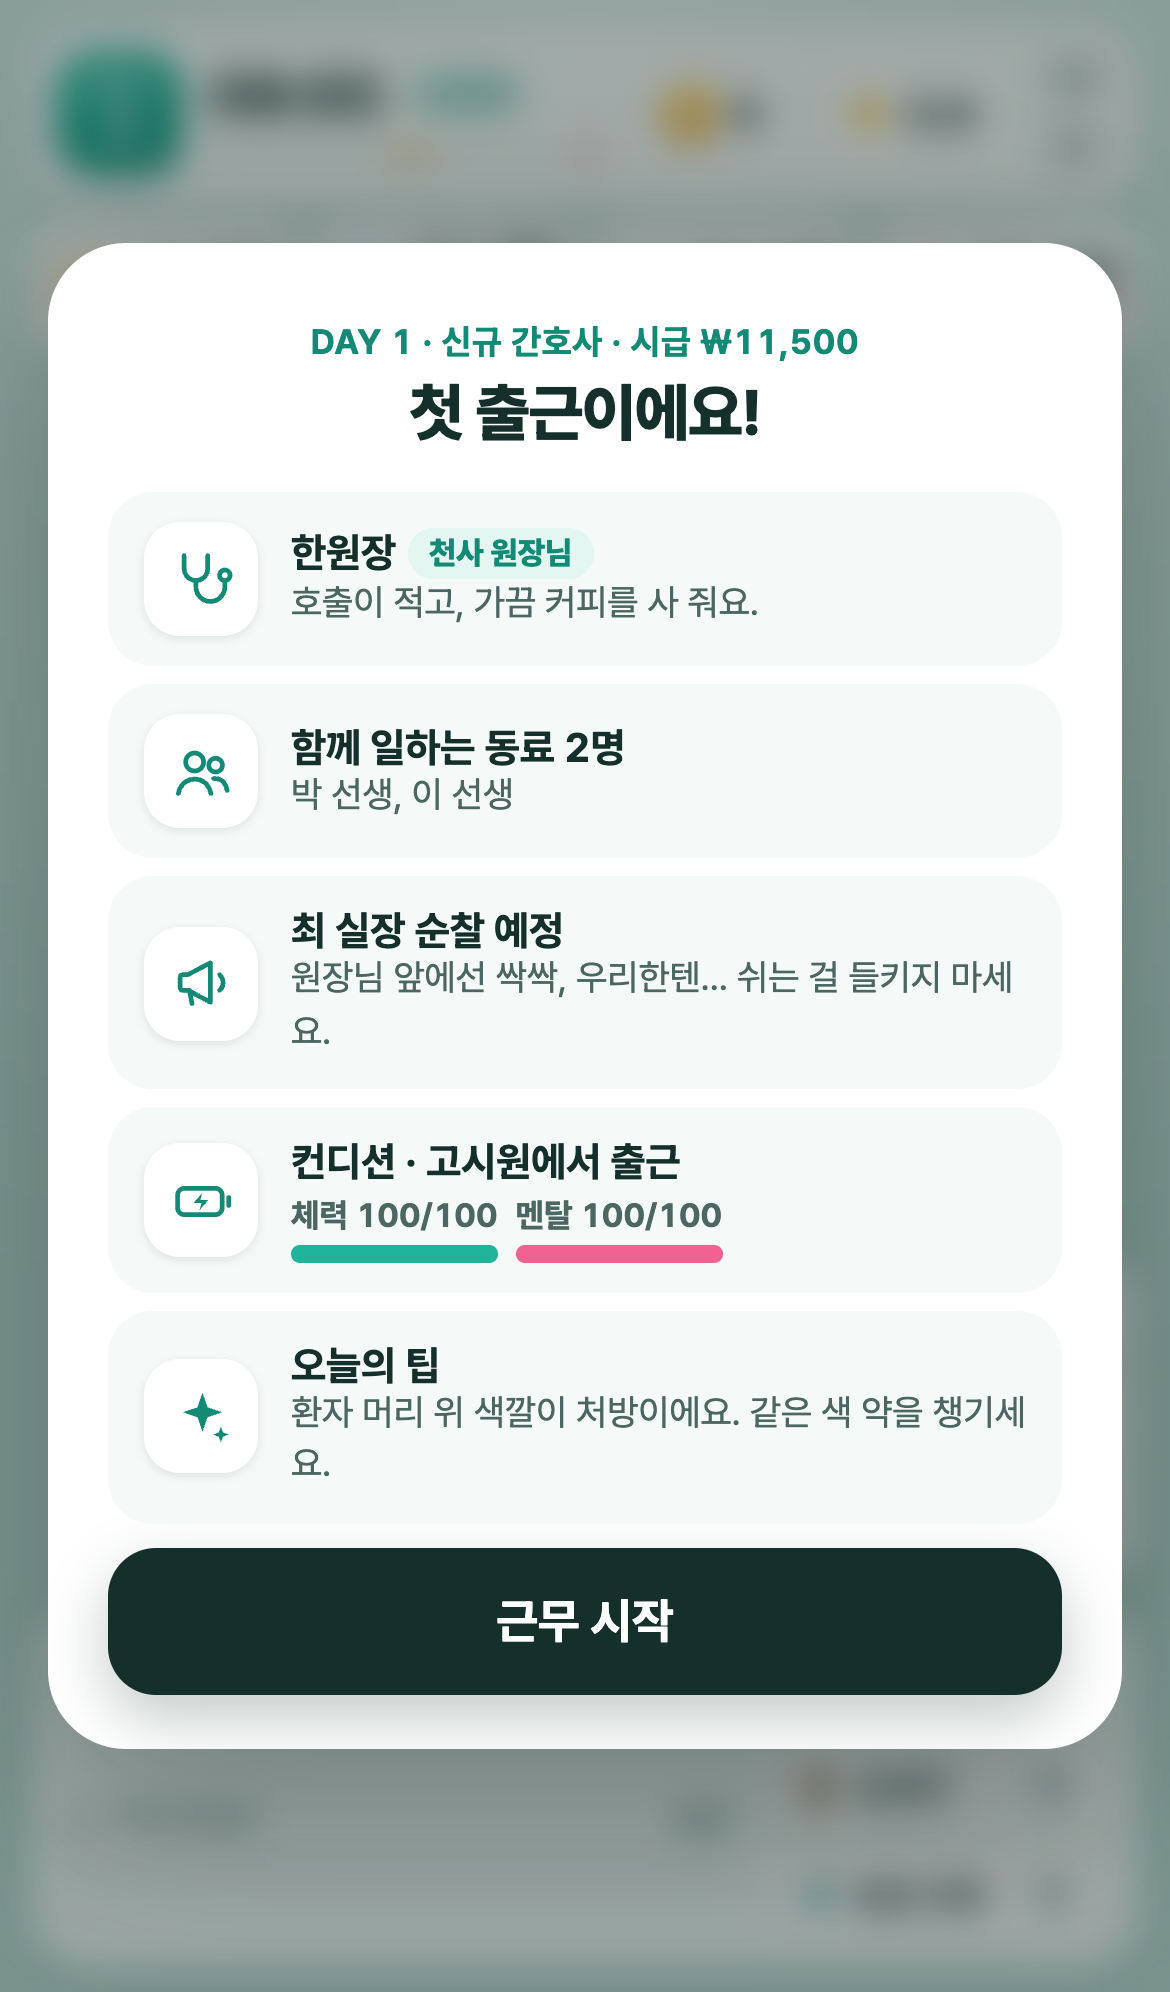
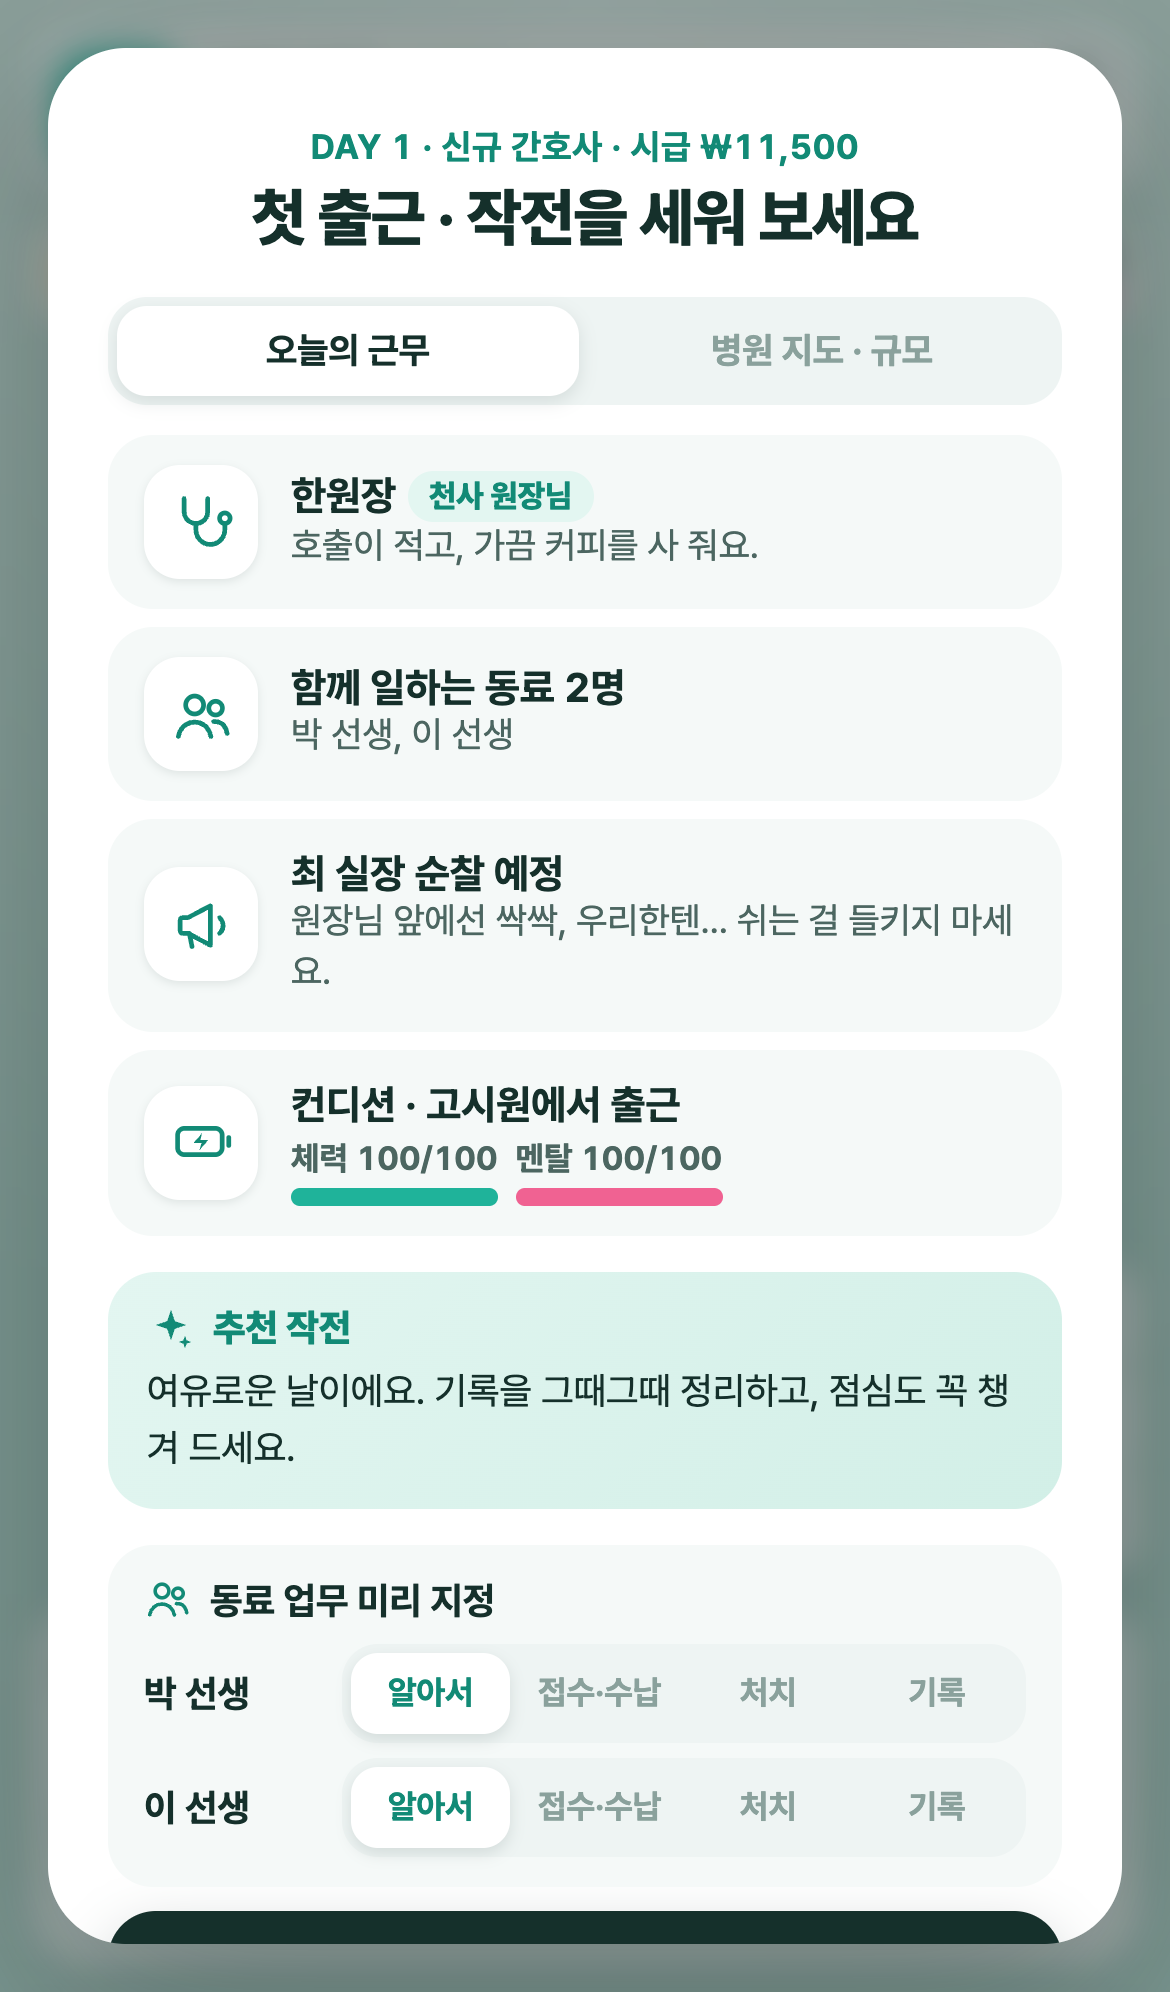
출근 전 작전 회의: 병원 평면도·규모·이벤트 미리보기, 동료 업무 사전 지정, 3D 맵 둘러보기

diff --git a/game.js b/game.js
@@ -378,9 +378,9 @@ let phoneMesh;
 // ---------- 매일 바뀌는 것: 침대 · TV ----------
 const dayGroup = new THREE.Group();
 world.add(dayGroup);
-function buildBeds() {
+function buildBeds(holder) {
   dayGroup.clear();
-  S.beds = [];
+  holder.beds = [];
   const make = (kind, n, bz, flip) => {
     [-2.2, -0.9, 0.4, 1.7].slice(0, n).forEach((dx) => {
       const c = R('ward', dx, bz);
@@ -411,7 +411,7 @@ function buildBeds() {
       };
       bed.ov.style.visibility = 'hidden';
       hit.userData.hit = { type: 'bed', bed };
-      S.beds.push(bed);
+      holder.beds.push(bed);
     });
   };
   make('iv', Math.min(4, save.clinic.ivBeds), -2.0, false);
@@ -800,8 +800,10 @@ function newDay(doc) {
              startRating: save.rating, maxCombo: 0, restSec: 0, errands: 0, errandsMissed: 0, rude: 0, charted: 0,
              taeum: 0, harass: 0, ateLunch: false, blood: 0, bloodFail: 0, chores: 0, evalAdj: 0 },
   };
+  for (const b of preview.beds) b.ov.remove();
+  preview.beds = [];
   buildDayCast();
-  buildBeds();
+  buildBeds(S);
   allActors().forEach((a, i) => {
     a.hands = []; a.queue = []; a.cur = null; a.path = []; a.state = 'work'; a.slot = null;
     const sp = i < 2 ? DESK_SLOTS[i].spot : SP.prep;
@@ -2107,11 +2109,111 @@ function sleepAndNext() {
 }
 
 let briefDoc = null;
+const preview = { beds: [], on: false };
+const DOC_PLAN = {
+  kind: '여유로운 날이에요. 기록을 그때그때 정리하고, 점심도 꼭 챙겨 드세요.',
+  slow: '진료가 길어 접수·수납실이 붐벼요. 동료 한 명은 <b>접수·수납 위주</b>로, 대기 환자 인내심을 지켜 주세요.',
+  fast: '진료가 빨라 주사실이 금방 차요. 동료를 <b>처치 위주</b>로 돌리고, 처방 변경이 잦으니 약은 1~2개씩만 챙기세요.',
+  caller: '원장님 호출이 수시로 와요. 처치는 동료에게 맡기고(<b>처치 위주</b>), 나는 데스크·호출 대응 위주로.',
+  creep: '불쾌한 말에 대비해 멘탈을 아껴 두세요. 초코바·간식으로 멘탈과 체력을 미리 채워 두는 게 좋아요.',
+};
+function estPatients() {
+  const base = Math.max(3.6, 7.0 - (save.day - 1) * 0.5);
+  return Math.round(147 / base + (16.7 / base) * (1 / 0.6 - 1));
+}
+function minimapSVG(doc) {
+  const K = 14, ox = 7.2, oz = 11.6;
+  const X = (x) => ((x + ox) * K).toFixed(1), Z = (z) => ((z + oz) * K).toFixed(1);
+  const W = (14.4 * K).toFixed(0), H = (24.6 * K).toFixed(0);
+  const nIv = Math.min(4, save.clinic.ivBeds), nHeat = Math.min(4, save.clinic.heatBeds);
+  const info = {
+    exam: [`${doc.name} · ${doc.trait}`, '진료 의자 1'],
+    cabinet: ['약 5종', '주사실과 내부 문'],
+    ward: [`침대 · 수액 ${nIv} · 핫팩 ${nHeat}`],
+    inject: ['처치 대기 의자 6', '주사 · 채혈'],
+    desk: ['창구 2 · 번호표', `대기 의자 10${save.clinic.tv ? ' · TV' : ''}`],
+    pantry: ['화장실 · 간식', '점심 13~14시'],
+  };
+  const flow = { desk: '1·5', exam: '2', inject: '3', ward: '4' };
+  let g = `<svg class="minimap" viewBox="0 0 ${W} ${H}" xmlns="http://www.w3.org/2000/svg">`;
+  g += `<rect x="${X(-COR)}" y="${Z(-11)}" width="${(2 * COR * K).toFixed(1)}" height="${(23.6 * K).toFixed(1)}" fill="#e3eeeb"/>`;
+  for (const r of Object.values(ROOMS)) {
+    g += `<rect x="${X(r.x0)}" y="${Z(r.z0)}" width="${((r.x1 - r.x0) * K).toFixed(1)}" height="${((r.z1 - r.z0) * K).toFixed(1)}" rx="6" fill="${r.floor}" stroke="#ffffff" stroke-width="3"/>`;
+    const tx = r.cx + (r.side < 0 ? -0.4 : 0.4), tz = r.cz + { exam: 0.2, cabinet: 0.9, ward: -0.05, inject: -0.6, desk: -1.6, pantry: 0.6 }[r.key];
+    g += `<text x="${X(tx)}" y="${Z(tz)}" text-anchor="middle" font-size="11" font-weight="800" fill="#15302b">${r.name}</text>`;
+    info[r.key].forEach((ln, i) => { g += `<text x="${X(tx)}" y="${(+Z(tz) + 13 + i * 11).toFixed(1)}" text-anchor="middle" font-size="8.5" font-weight="600" fill="#4c6661">${ln}</text>`; });
+    const dx = r.side * COR;
+    g += `<rect x="${(+X(dx) - 2).toFixed(1)}" y="${Z(r.cz - 0.9)}" width="4" height="${(1.8 * K).toFixed(1)}" rx="2" fill="#1fb39a"/>`;
+    const fx = r.side < 0 ? r.x1 - 0.5 : r.x0 + 0.5, fz = r.cz + (r.key === 'desk' ? -1.0 : r.key === 'ward' ? 0.15 : 0);
+    if (flow[r.key]) g += `<circle cx="${X(fx)}" cy="${Z(fz)}" r="9" fill="#15302b"/><text x="${X(fx)}" y="${(+Z(fz) + 3.5).toFixed(1)}" text-anchor="middle" font-size="${flow[r.key].length > 1 ? 7 : 9}" font-weight="800" fill="#7ff0dc">${flow[r.key]}</text>`;
+  }
+  // 침대 · 의자 · 사람
+  [-2.2, -0.9, 0.4, 1.7].slice(0, nIv).forEach((dx) => { const c = R('ward', dx, -2.0); g += `<rect x="${X(c.x - 0.5)}" y="${Z(c.z - 1)}" width="${K}" height="${2 * K}" rx="3" fill="#a8dcef"/>`; });
+  [-2.2, -0.9, 0.4, 1.7].slice(0, nHeat).forEach((dx) => { const c = R('ward', dx, 2.0); g += `<rect x="${X(c.x - 0.5)}" y="${Z(c.z - 1)}" width="${K}" height="${2 * K}" rx="3" fill="#f6c3a0"/>`; });
+  for (const st of [...SEATS.lobby, ...SEATS.inject]) g += `<circle cx="${X(st.x)}" cy="${Z(st.z)}" r="3.2" fill="${SEATS.lobby.includes(st) ? '#f2a65a' : '#8f7fe8'}"/>`;
+  const desk = R('desk', -0.7, -2.6);
+  g += `<rect x="${X(desk.x - 1.9)}" y="${Z(desk.z - 0.3)}" width="${(3.8 * K).toFixed(1)}" height="${(0.6 * K).toFixed(1)}" rx="3" fill="#e6c48f"/>`;
+  const dp = R('exam', -1.4, -1.85);
+  g += `<circle cx="${X(dp.x)}" cy="${Z(dp.z)}" r="5" fill="#ffffff" stroke="#15302b" stroke-width="2"/>`;
+  const lx = R('cabinet', LINK_DX, 0).x;
+  g += `<rect x="${X(lx - 0.6)}" y="${(+Z(-5) - 2).toFixed(1)}" width="${(1.2 * K).toFixed(1)}" height="4" rx="2" fill="#3f7df0"/>`;
+  g += `<text x="${X(0)}" y="${Z(12.3)}" text-anchor="middle" font-size="9" font-weight="800" fill="#128a76">▲ 입구</text>`;
+  return g + '</svg>';
+}
+function renderBriefMap(doc) {
+  const nMates = save.day <= 3 ? 2 : 1;
+  const beds = Math.min(4, save.clinic.ivBeds) + Math.min(4, save.clinic.heatBeds);
+  const evs = [
+    ['drop', '채혈 1~2건'], ['lunch', '점심 13~14시'], ['clock', '17:30 접수 마감'], ['megaphone', '실장 순찰'],
+  ];
+  if (save.day >= 2) evs.push(['heartPulse', '응급 환자 가능', 1], ['stetho', '처방 변경', 1]);
+  if (doc.harass) evs.push(['warning', '불쾌한 발언', 1]);
+  if (doc.kind) evs.push(['cup', '커피 이벤트']);
+  if (doc.errandMul > 2) evs.push(['stetho', '원장님 호출 잦음', 1]);
+  $('#brief-map').innerHTML = `<div class="map-wrap">${minimapSVG(doc)}</div>
+    <div class="scale-grid">
+      <div><b>1</b><small>의사</small></div>
+      <div><b>${1 + nMates}</b><small>간호사 (나+동료)</small></div>
+      <div><b>1</b><small>간호실장</small></div>
+      <div><b>${beds}</b><small>치료 침대</small></div>
+      <div><b>16</b><small>대기 의자</small></div>
+      <div><b>~${estPatients()}</b><small>예상 환자</small></div>
+    </div>
+    <div class="ev-list">${evs.map(([ic, t, w]) => `<span class="ev ${w ? 'warn' : ''}">${icon(ic)}${t}</span>`).join('')}</div>
+    <div class="stage-next">${icon('home')}<span><b>STAGE 1 · 동네 의원</b> — 다음 스테이지 <b>종합병원</b>(원무과·병동·3교대)은 준비 중이에요</span></div>`;
+}
+function setBriefTab(tab) {
+  document.querySelectorAll('#brief-tabs button').forEach((b) => b.classList.toggle('on', b.dataset.btab === tab));
+  document.querySelectorAll('.btab').forEach((b) => b.classList.toggle('hidden', b.dataset.btab !== tab));
+}
+$('#brief-tabs').addEventListener('click', (e) => { const b = e.target.closest('[data-btab]'); if (b) setBriefTab(b.dataset.btab); });
+$('#brief-body').addEventListener('click', (e) => {
+  const fb = e.target.closest('[data-bfocus]');
+  if (!fb) return;
+  const i = +fb.dataset.bmate;
+  save.focus[i] = fb.dataset.bfocus; persist();
+  fb.parentElement.querySelectorAll('button').forEach((x) => x.classList.toggle('on', x === fb));
+});
+function startPreview() {
+  $('#screen-brief').classList.add('hidden');
+  if (S && S.ended) clearDay();
+  for (const b of preview.beds) b.ov.remove();
+  buildBeds(preview);
+  placeDoctor(briefDoc.look);
+  cam.tZoom = 1; cam.tpx = 0; cam.tpz = 0;
+  preview.on = true;
+  $('#preview-bar').classList.remove('hidden');
+  toast('🏠 오늘의 의원을 둘러보세요. 두 손가락으로 확대할 수 있어요');
+}
+function endPreview() { preview.on = false; $('#preview-bar').classList.add('hidden'); }
+$('#btn-brief-look').addEventListener('click', startPreview);
+$('#pv-back').addEventListener('click', () => { endPreview(); $('#screen-brief').classList.remove('hidden'); });
+$('#pv-go').addEventListener('click', () => { endPreview(); $('#btn-brief-go').click(); });
 function openBrief() {
   briefDoc = pickDoctor();
   const rank = RANKS[save.rank];
   $('#brief-eyebrow').textContent = `DAY ${save.day} · ${rank.name} · 시급 ${won(rank.wage)}`;
-  $('#brief-title').textContent = save.day === 1 ? '첫 출근이에요!' : '오늘의 근무';
+  $('#brief-title').textContent = save.day === 1 ? '첫 출근 · 작전을 세워 보세요' : '출근 전 작전 회의';
   const nMates = save.day <= 3 ? 2 : 1;
   const mx = maxStat();
   const bar = (label, v, c) => `<div>${label} ${v}/${mx}<b><i style="width:${v / mx * 100}%;background:${c}"></i></b></div>`;
@@ -2120,8 +2222,13 @@ function openBrief() {
     <div class="brief-item"><span class="bi">${icon('users')}</span><div><b>함께 일하는 동료 ${nMates}명</b><p>${MATE_DEFS.slice(0, nMates).map((m) => m.name).join(', ')}${save.day === 4 ? ' · <b>이 선생님이 이직했어요.</b> (간호사 72.1%가 이직을 고민)' : ''}</p></div></div>
     <div class="brief-item"><span class="bi">${icon('megaphone')}</span><div><b>최 실장 순찰 예정</b><p>원장님 앞에선 싹싹, 우리한텐… 쉬는 걸 들키지 마세요.</p></div></div>
     <div class="brief-item"><span class="bi">${icon('battery')}</span><div><b>컨디션 · ${HOMES[save.home].name}에서 출근</b><div class="bars2">${bar('체력', Math.round(save.stamina), '#1fb39a')}${bar('멘탈', Math.round(save.mental), '#f06292')}</div></div></div>
-    <div class="brief-item"><span class="bi">${icon('sparkle')}</span><div><b>오늘의 팁</b><p>${TIPS[(save.day - 1) % TIPS.length]}</p></div></div>
+    <div class="plan"><h4>${icon('sparkle')}추천 작전</h4><p>${DOC_PLAN[briefDoc.id]}</p></div>
+    <div class="brief-mates"><b>${icon('users')}동료 업무 미리 지정</b>
+      ${MATE_DEFS.slice(0, nMates).map((m, i) => `<div class="mate-row"><span class="mate-name">${m.name}</span><div class="focus-seg">${Object.entries(FOCUS).map(([k, v]) => `<button data-bmate="${i}" data-bfocus="${k}" class="${(save.focus[i] || 'auto') === k ? 'on' : ''}">${v}</button>`).join('')}</div></div>`).join('')}
+    </div>
   </div>`;
+  renderBriefMap(briefDoc);
+  setBriefTab('today');
   $('#screen-brief').classList.remove('hidden');
 }
 $('#btn-brief-go').addEventListener('click', () => {

diff --git a/style.css b/style.css
@@ -510,3 +510,38 @@ button.primary.danger { background: #e53935; box-shadow: 0 8px 20px rgba(229,57,
 .actor-ov .pbar { visibility: hidden; }
 
 .qbtn b { font-weight: 700; font-size: 11.5px; }
+
+/* ===== 스테이지 미리보기 ===== */
+.card.brief .tabs { margin: 0 0 10px; }
+.minimap { width: 100%; height: auto; display: block; border-radius: 16px; background: #cfe6e0; }
+.minimap text { font-family: var(--font); }
+.map-wrap { position: relative; }
+.scale-grid { display: grid; grid-template-columns: repeat(3, 1fr); gap: 6px; margin-top: 10px; }
+.scale-grid div { background: #f5f9f8; border-radius: 12px; padding: 8px 6px; text-align: center; }
+.scale-grid b { display: block; font-size: 17px; font-weight: 800; }
+.scale-grid small { font-size: 10.5px; color: var(--ink-3); font-weight: 600; }
+.ev-list { display: flex; flex-wrap: wrap; gap: 5px; margin-top: 10px; justify-content: flex-start; }
+.ev { display: inline-flex; align-items: center; gap: 4px; font-size: 11.5px; font-weight: 700; padding: 5px 9px; border-radius: 999px; background: #f5f9f8; color: var(--ink-2); }
+.ev .ic { font-size: 13px; color: var(--mint-d); }
+.ev.warn { background: var(--coral-l); color: var(--coral); }
+.ev.warn .ic { color: var(--coral); }
+.stage-next { margin-top: 10px; display: flex; align-items: center; gap: 8px; padding: 10px 12px; border-radius: 14px; border: 1.5px dashed rgba(21,48,43,.15); font-size: 12px; color: var(--ink-3); text-align: left; }
+.stage-next .ic { font-size: 18px; }
+.plan { text-align: left; padding: 11px 13px; border-radius: 16px; background: linear-gradient(135deg, #e3f6f1, #d2efe7); margin-top: 6px; }
+.plan h4 { display: flex; align-items: center; gap: 6px; font-size: 12.5px; font-weight: 800; color: var(--mint-d); margin-bottom: 4px; }
+.plan h4 .ic { font-size: 16px; }
+.plan p { font-size: 12.5px; color: var(--ink); line-height: 1.5; }
+.brief-mates { margin-top: 6px; text-align: left; padding: 10px 12px; border-radius: 15px; background: #f5f9f8; }
+.brief-mates > b { font-size: 12.5px; display: flex; align-items: center; gap: 6px; margin-bottom: 2px; }
+.brief-mates > b .ic { font-size: 16px; color: var(--mint-d); }
+.brief-mates .mate-row { border-top: none; padding: 5px 0 0; }
+#preview-bar { position: absolute; left: 10px; right: 10px; top: 10px; z-index: 45; display: flex; align-items: center; gap: 8px; padding: 9px 9px 9px 14px; border-radius: 18px; background: rgba(21,48,43,.92); color: #fff; box-shadow: 0 10px 30px rgba(21,48,43,.35); }
+#preview-bar .pv-tx { flex: 1; display: flex; flex-direction: column; line-height: 1.3; }
+#preview-bar .pv-tx b { font-size: 13.5px; }
+#preview-bar .pv-tx span { font-size: 11px; color: rgba(255,255,255,.7); }
+.pv-btn { padding: 9px 13px; border-radius: 12px; background: #7ff0dc; color: #15302b; font-weight: 800; font-size: 13px; }
+.pv-btn.ghosty { background: rgba(255,255,255,.12); color: #fff; }
+
+.v-top span { white-space: nowrap; overflow: hidden; }
+.v-top { gap: 3px; }
+.vital.bladder .v-top span { letter-spacing: -0.04em; }

diff --git a/index.html b/index.html
@@ -80,6 +80,11 @@
         <button id="zoom-reset" aria-label="전체 보기"><span data-icon="expand"></span></button>
       </div>
       <div id="sheet" class="sheet hidden"></div>
+      <div id="preview-bar" class="hidden">
+        <div class="pv-tx"><b>맵 미리보기</b><span>두 손가락으로 확대 · 드래그로 이동</span></div>
+        <button id="pv-back" class="pv-btn ghosty">브리핑</button>
+        <button id="pv-go" class="pv-btn">근무 시작</button>
+      </div>
       <div id="loading">의원 짓는 중…</div>
     </main>
 
@@ -125,11 +130,17 @@
 
   <!-- 출근 브리핑 -->
   <div id="screen-brief" class="screen hidden">
-    <div class="card">
+    <div class="card brief">
       <p class="eyebrow" id="brief-eyebrow">DAY 1 · 신규 간호사</p>
       <h2 id="brief-title">오늘의 근무</h2>
-      <div id="brief-body"></div>
+      <div class="tabs" id="brief-tabs">
+        <button data-btab="today" class="on">오늘의 근무</button>
+        <button data-btab="map">병원 지도 · 규모</button>
+      </div>
+      <div id="brief-body" class="btab" data-btab="today"></div>
+      <div id="brief-map" class="btab hidden" data-btab="map"></div>
       <button id="btn-brief-go" class="primary">근무 시작</button>
+      <button id="btn-brief-look" class="secondary"><span data-icon="expand"></span>3D로 미리 둘러보기</button>
     </div>
   </div>
 

diff --git a/README.md b/README.md
@@ -34,6 +34,7 @@
 | 퇴근 후 | 쉬기 / 친구 만나기 / 하루 돌아보기 · 감정노동 회상 · 투약 사고 시 경위서 |
 | 성장 | 상점(초코바·가디건·간호화·텀블러), 집(고시원→원룸→투룸→아파트, 최대치 130), 승진(신규→수간호사) |
 | 의원 성장 | 매출이 쌓이면 원장님이 침대·TV 투자 |
+| 출근 전 작전 회의 | 오늘의 원장 성향·추천 작전, 동료 업무 미리 지정, 병원 평면도(시설 수·환자 동선)·규모·예상 환자·이벤트, 3D 맵 미리 둘러보기 |
 
 ### 실제 현실 반영 (도움말 → 간호사의 현실 탭)
 - 병동 간호사 1인당 환자 19.5명(2016), 법적 기준 없음
@@ -57,9 +58,9 @@
 3. **대학병원**: 진료과별 테마 에피소드 (응급실, 내과 병동, 외과/수술실, 소아과, 중환자실 …)
 
 ## 📸 스크린샷
-| 출근 브리핑 | 근무 중 | 채혈 미니게임 | 급여 명세 |
+| 작전 회의 · 지도 | 근무 중 | 채혈 미니게임 | 급여 명세 |
 |---|---|---|---|
-| ![](screenshots/03-briefing.png) | ![](screenshots/07-busy.png) | ![](screenshots/21-blood-minigame.png) | ![](screenshots/31-result-pay.png) |
+| ![](screenshots/03-briefing-map.png) | ![](screenshots/07-busy.png) | ![](screenshots/21-blood-minigame.png) | ![](screenshots/31-result-pay.png) |
 
 | 간호사 | 접수·대기 | 주사실 | 퇴근 후 |
 |---|---|---|---|
